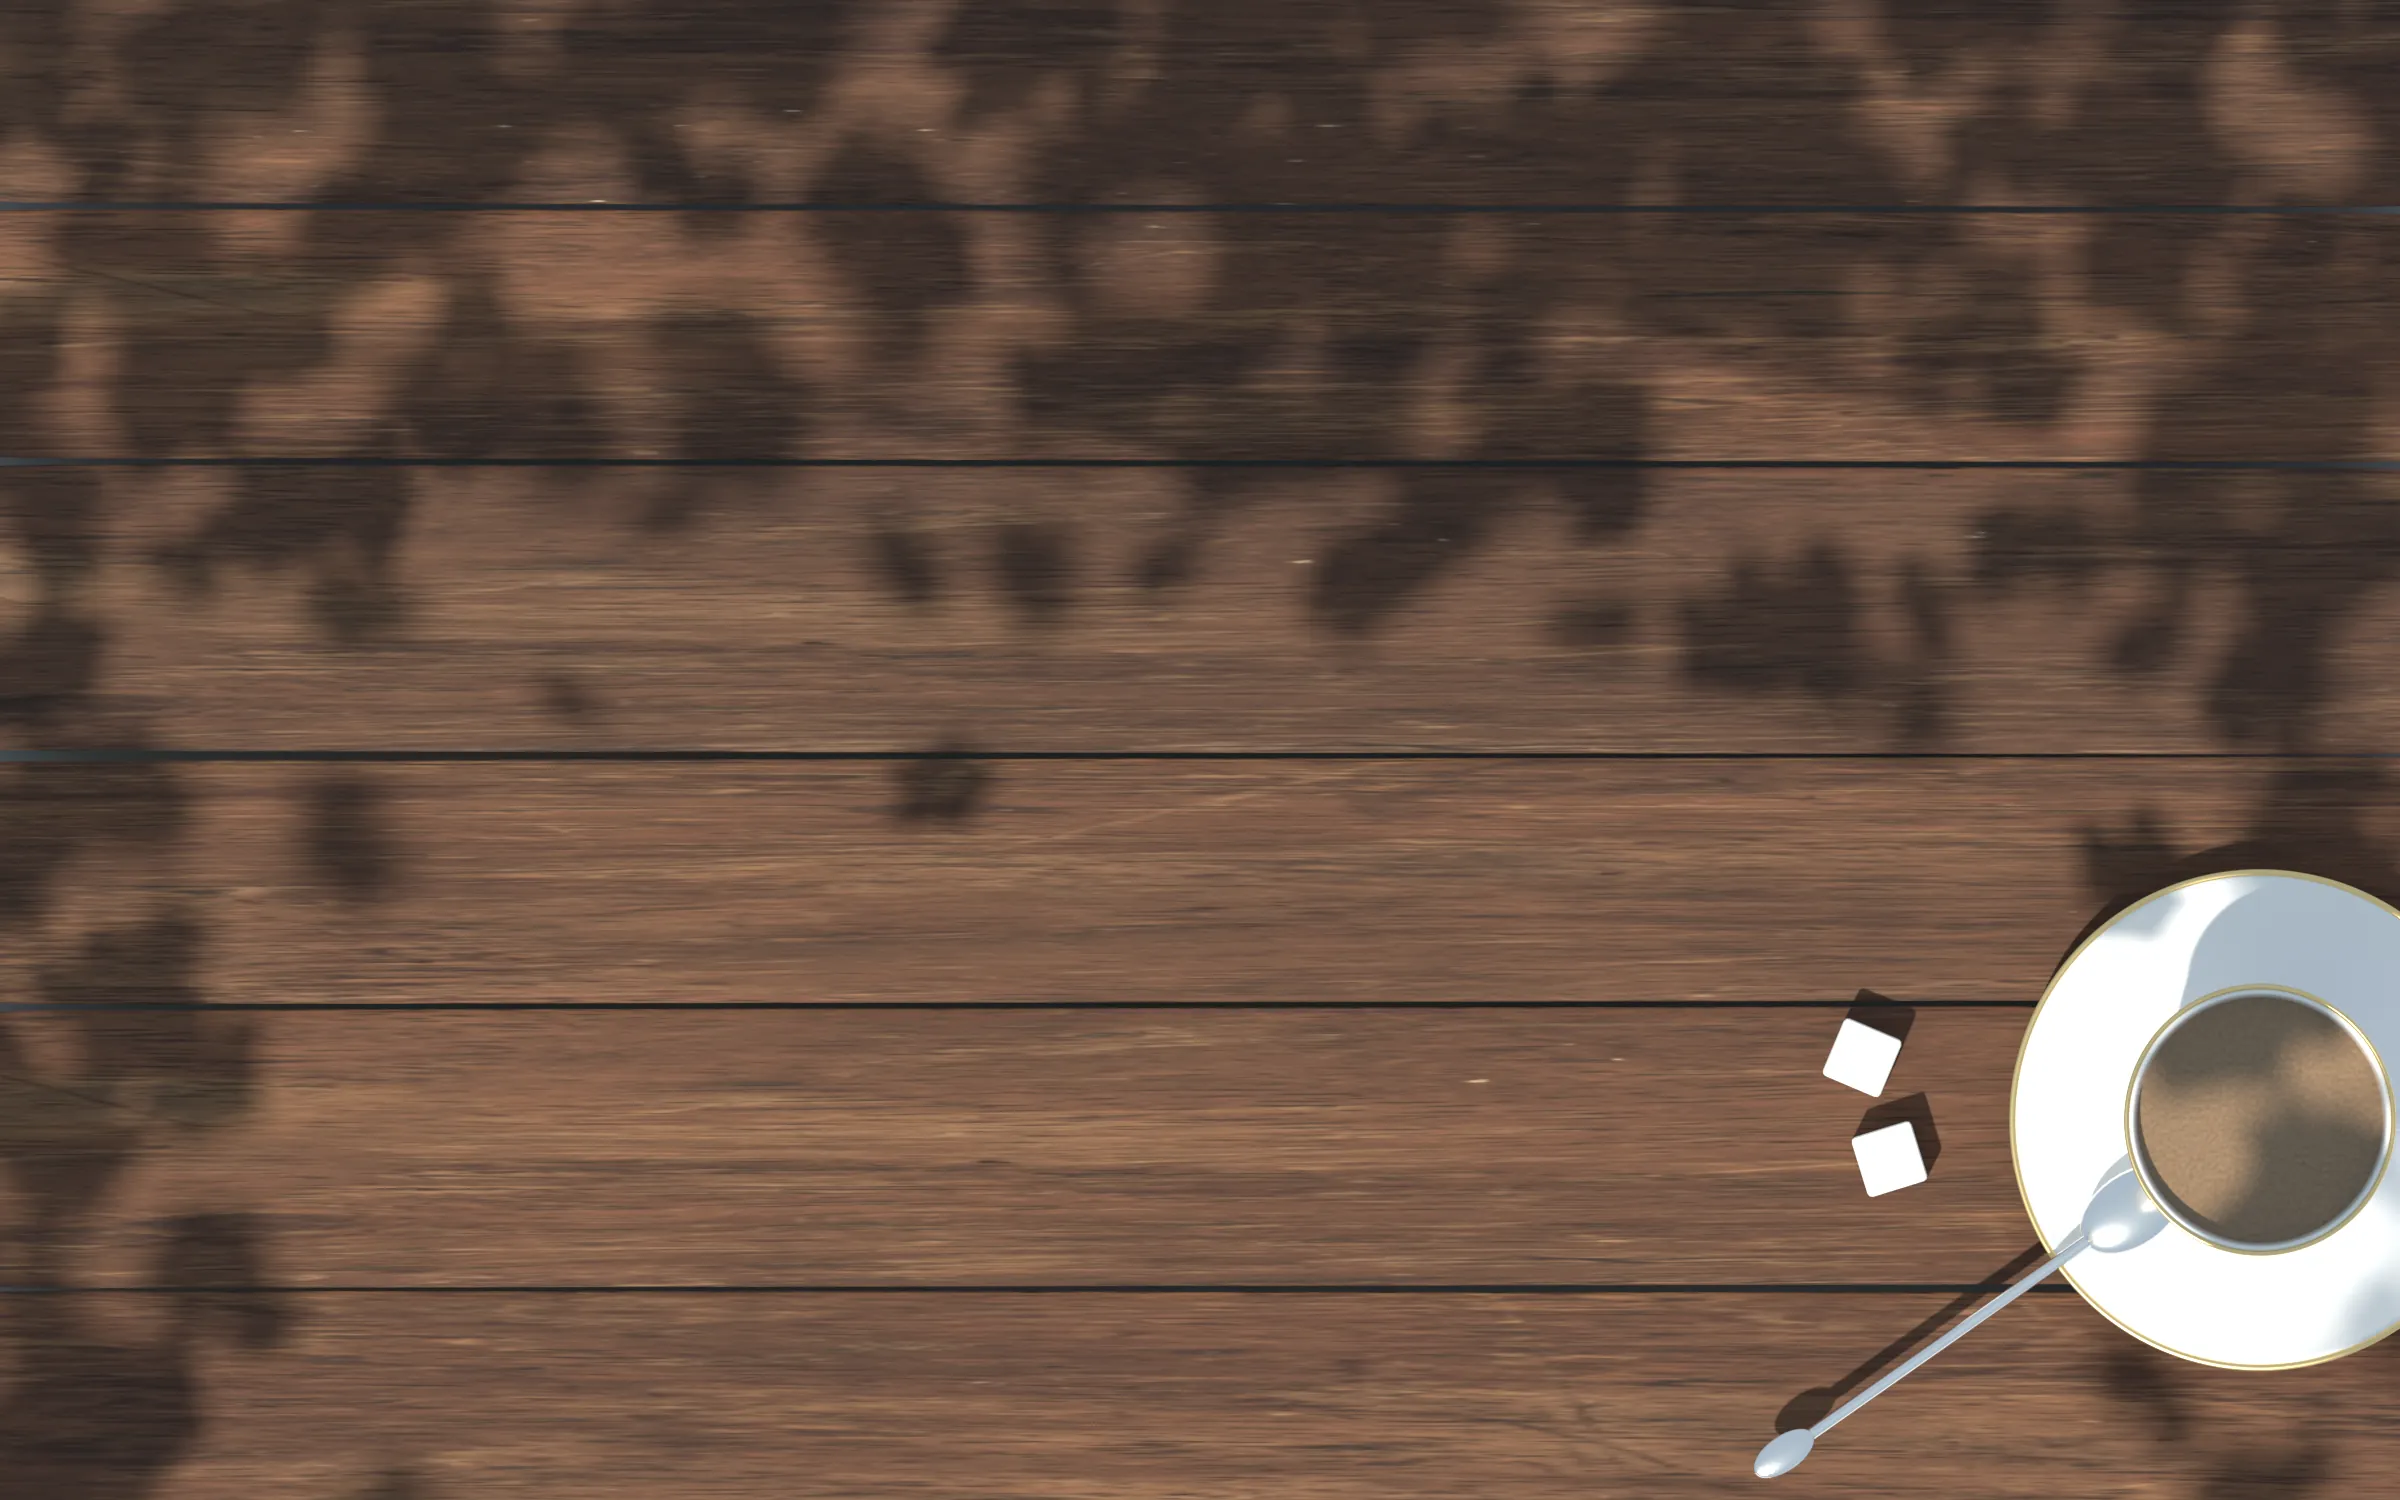
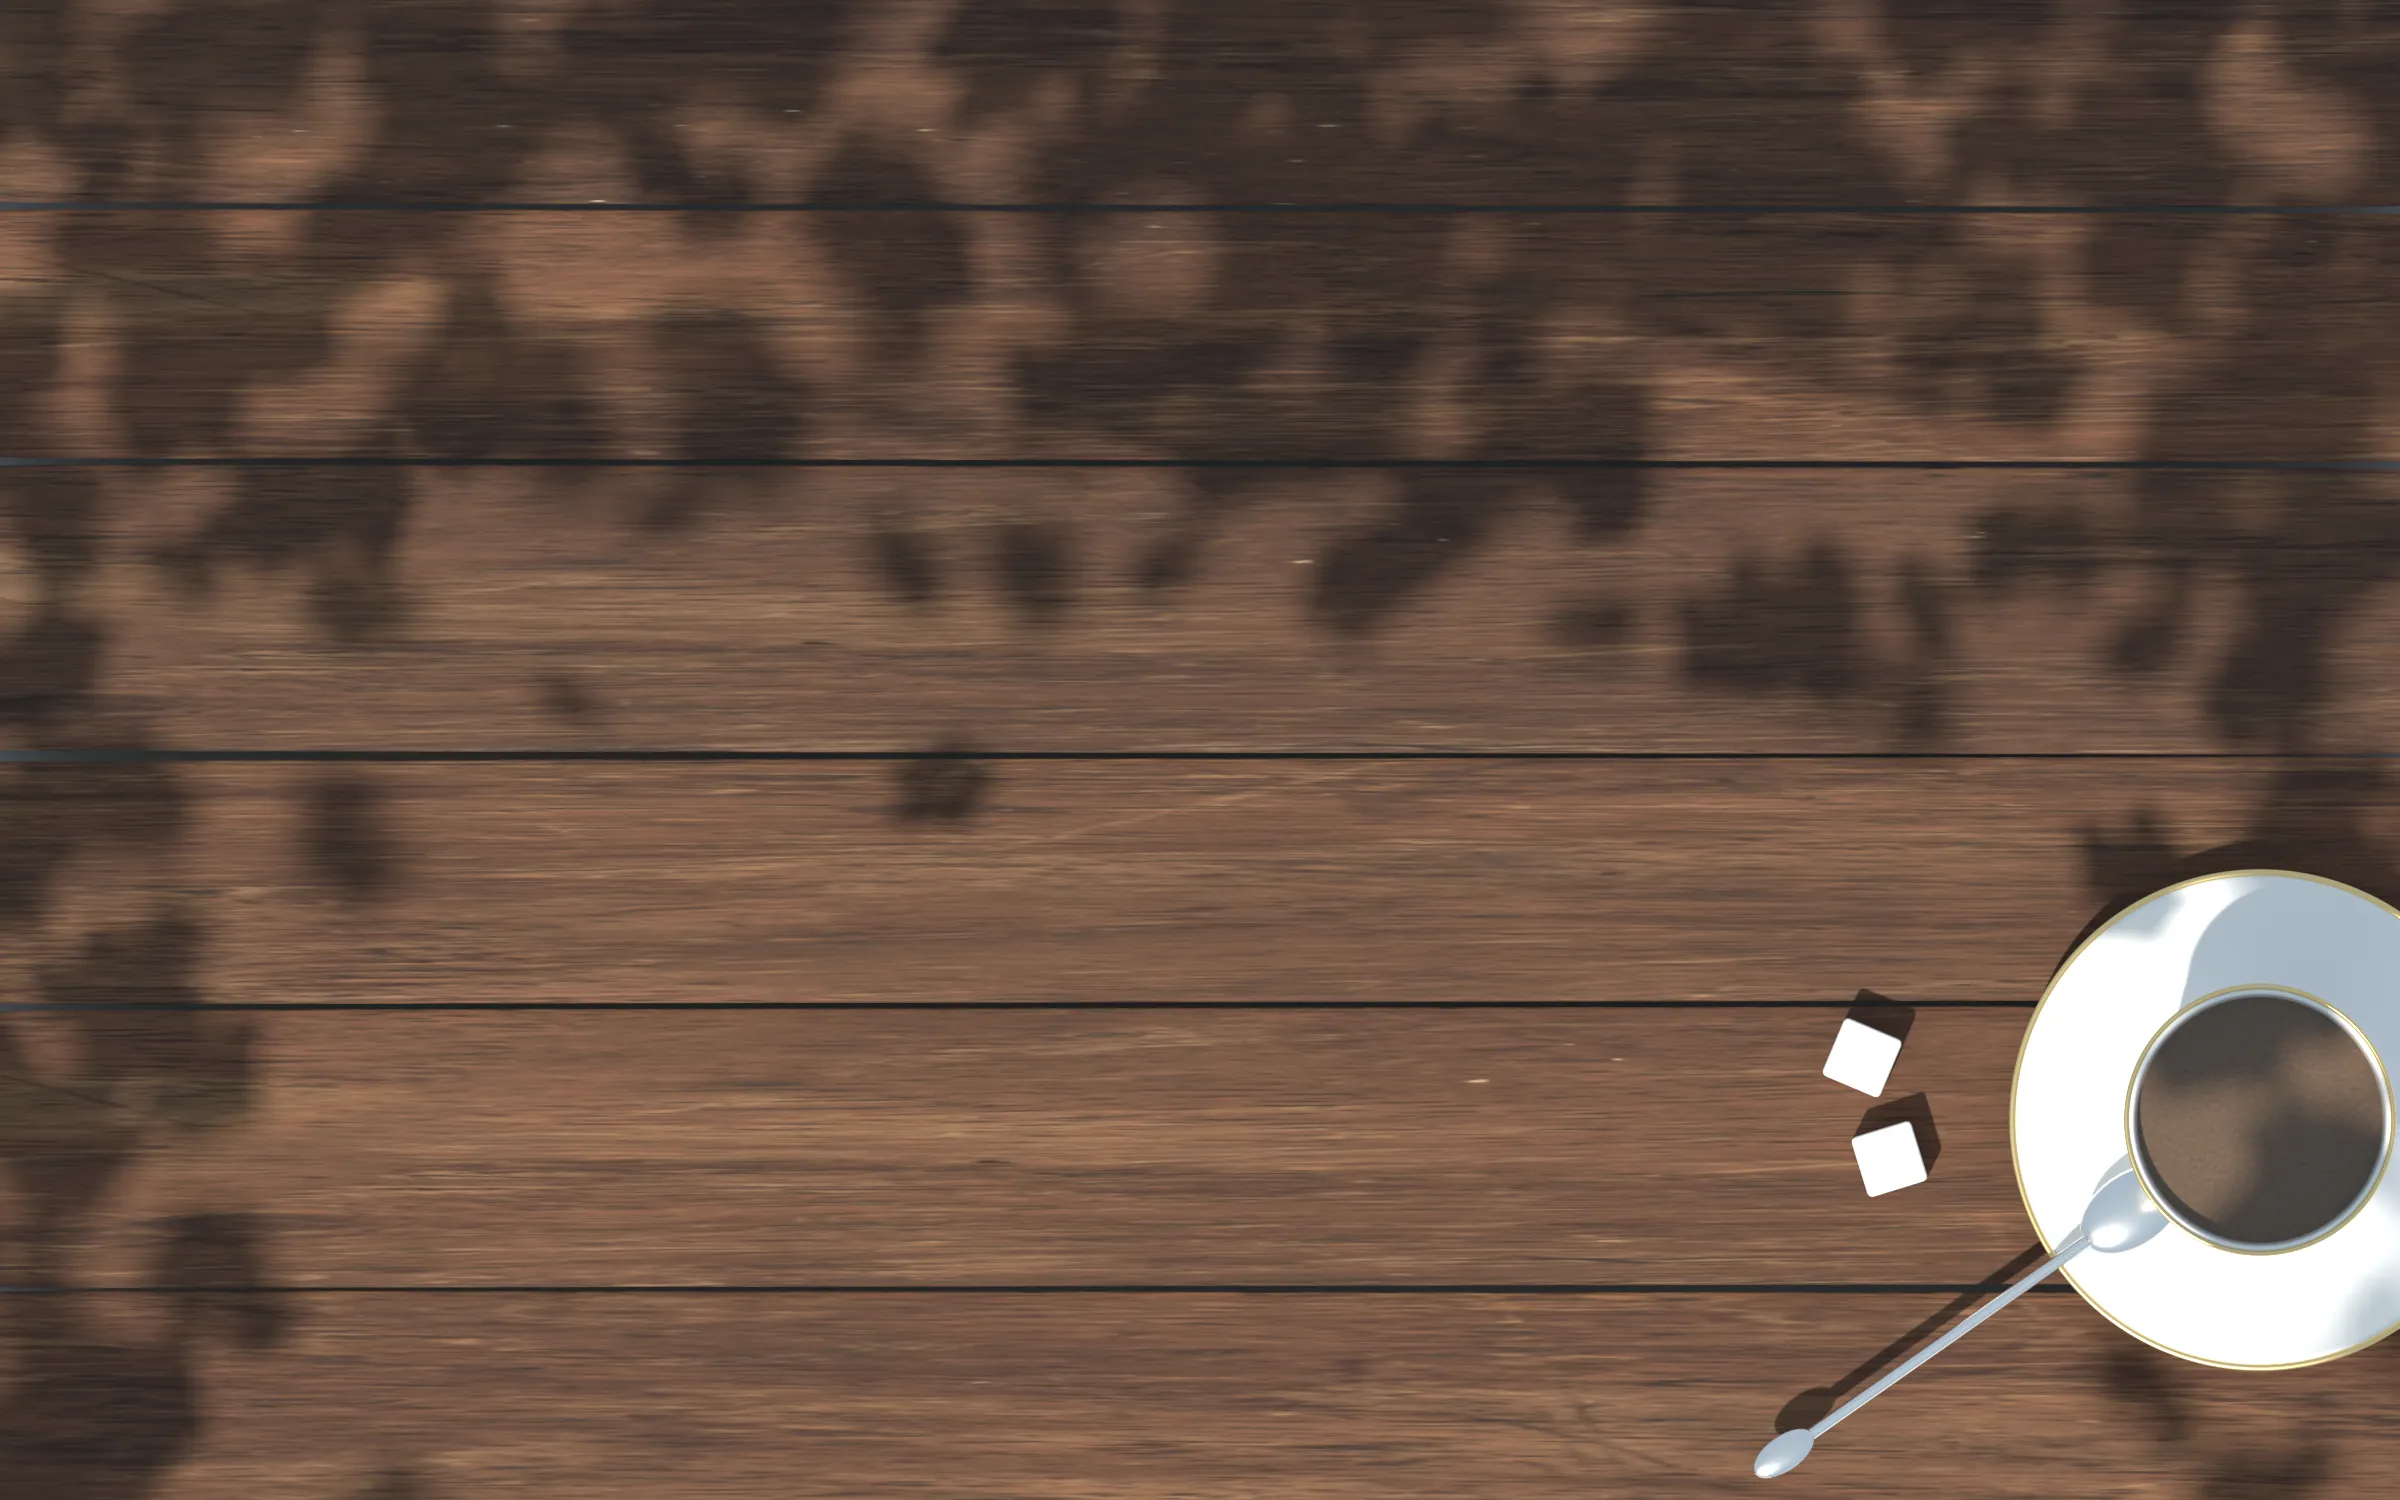
Кубики не меньше 32px на телефоне, плавное затемнение фона после раскрытия, кофе темнее
Claude-Session: https://claude.ai/code/session_013vq6NREHT7txoK1nXmxN83

Changed region(s): [[0.875, 0.6747, 1.0, 0.828]]

diff --git a/index.html b/index.html
@@ -68,7 +68,9 @@ button.primary:hover:not(:disabled){background:linear-gradient(180deg,#f0d38f,#c
   container-type:size;
   padding:max(6px,var(--sat)) max(10px,var(--sar)) max(8px,var(--sab)) max(10px,var(--sal));
 }
-.board-box{flex:1 1 auto;min-width:0;min-height:0;display:flex;align-items:center;justify-content:center;container-type:size}
+.vign{position:absolute;inset:0;pointer-events:none;opacity:0;background:radial-gradient(ellipse at 50% 45%,transparent 30%,rgba(0,0,0,.55));transition:opacity 1.6s ease}
+.vign.on{opacity:1;transition:none}
+.board-box{position:relative;flex:1 1 auto;min-width:0;min-height:0;display:flex;align-items:center;justify-content:center;container-type:size}
 .board-frame{position:relative;width:min(100cqw,calc(100cqh * 1100 / 700));aspect-ratio:1100/700;filter:drop-shadow(0 12px 30px rgba(0,0,0,.6))}
 svg#board{position:absolute;inset:0;width:100%;height:100%;display:block;touch-action:none}
 /* строка партии: игроки по краям, подсказка посередине, снизу золотая волосяная линия */
@@ -98,6 +100,8 @@ svg#board{position:absolute;inset:0;width:100%;height:100%;display:block;touch-a
 .hit{cursor:pointer}
 
 /* ---------- 3D кубики ---------- */
+/* кубик — 46/1100 ширины доски, но на телефоне не меньше 32px, иначе его не разглядеть */
+.board-frame{--ds:max(calc(min(100cqw,100cqh * 1100 / 700) * 46 / 1100),min(32px,calc(min(100cqw,100cqh * 1100 / 700) * 80 / 1100)))}
 .dice3d{position:absolute;inset:0;pointer-events:none;overflow:visible}
 /* у каждого кубика своя перспектива с точкой зрения прямо над ним: лежащий кубик показывает только верхнюю грань */
 .d3{position:absolute;width:var(--ds,50px);height:var(--ds,50px);margin:calc(var(--ds,50px) / -2) 0 0 calc(var(--ds,50px) / -2);perspective:calc(var(--ds,50px) * 14);transition:opacity .25s}
@@ -283,6 +287,7 @@ html.land #menu.opening .case{transform:translateX(calc(-50% + calc(3 * var(--vw
 <body>
 
 <div id="app">
+  <div class="vign" id="vign"></div>
   <header class="bar">
     <button class="ib" id="bMenu" aria-label="Меню"><svg viewBox="0 0 24 24"><path d="M4 7h16M4 12h16M4 17h16"/></svg></button>
     <div class="pl" id="p0">
@@ -501,7 +506,7 @@ html.land #menu.opening .case{transform:translateX(calc(-50% + calc(3 * var(--vw
 (()=>{
 'use strict';
 const $=id=>document.getElementById(id);
-const APP_VERSION='34';   // совпадает с VERSION в sw.js; добавляется к адресам картинок, чтобы новые доски не брались из старого кэша
+const APP_VERSION='35';   // совпадает с VERSION в sw.js; добавляется к адресам картинок, чтобы новые доски не брались из старого кэша
 const NS='http://www.w3.org/2000/svg';
 const f2=v=>(+v).toFixed(1);
 
@@ -885,8 +890,7 @@ const REST=[[500,316],[500,384]];
 const ZONE={l:[90,410],r:[590,910],y:[300,400]};
 const DIE_POS=[[712,350],[788,350]];
 const frame=$('frame'), diceBox=$('dice3d');
-function sizeDice(){ frame.style.setProperty('--ds',(frame.clientWidth*46/1100)+'px'); }
-new ResizeObserver(sizeDice).observe(frame);
+function sizeDice(){}   // размер кубика задан в CSS (--ds у .board-frame) и всегда равен 46/1100 ширины доски
 function dieEl(v){
   const el=document.createElement('div'); el.className='d3';
   let faces='';
@@ -2009,7 +2013,7 @@ function zoomIn(from){
     {duration:850,easing:'cubic-bezier(.45,0,.2,1)'});
   fadeChrome();
 }
-function fadeChrome(){ for(const el of [document.querySelector('.bar')]) el.animate([{opacity:0},{opacity:0,offset:.5},{opacity:1}],{duration:900}); }
+function fadeChrome(){ const v=$('vign'); v.classList.add('on'); requestAnimationFrame(()=>requestAnimationFrame(()=>v.classList.remove('on'))); for(const el of [document.querySelector('.bar')]) el.animate([{opacity:0},{opacity:0,offset:.5},{opacity:1}],{duration:900}); }
 $('mAi').addEventListener('click',()=>openCase(()=>newGame('ai')));
 $('mPvp').addEventListener('click',()=>openCase(()=>newGame('pvp')));
 $('mContinue').addEventListener('click',()=>openCase(()=>{ if(NET&&NET.started) showGame(); else if(G&&G.phase!=='over'&&readSaved()&&mode!=='net') showGame(); else resumeGame(); }));

diff --git a/sw.js b/sw.js
@@ -1,5 +1,5 @@
 // Офлайн-кэш: страница, доски, звуки и шрифты кэшируются при установке.
-const V = '34';                 // = APP_VERSION в index.html
+const V = '35';                 // = APP_VERSION в index.html
 const VERSION = 'nardy-v' + V;
 const SHELL = [
   './',

diff --git a/tools/blender_table.py b/tools/blender_table.py
@@ -134,7 +134,7 @@ lathe('cup', [(1.6, 0), (2.2, .3), (2.9, 1.6), (3.25, 3.4), (3.4, 5.2), (3.45, 5
 lathe('cuprim', [(3.36, 5.58), (3.5, 5.58), (3.5, 5.7), (3.36, 5.7), (3.36, 5.58)], gold, (X0, Y0, 1.0 * CM), cap=False)
 foam = bpy.data.materials.new('foam'); foam.use_nodes = True; fn = foam.node_tree.nodes; fb = fn['Principled BSDF']
 noise = fn.new('ShaderNodeTexNoise'); noise.inputs['Scale'].default_value = 60; noise.inputs['Detail'].default_value = 8
-ramp = fn.new('ShaderNodeValToRGB'); ramp.color_ramp.elements[0].color = (.10, .05, .025, 1); ramp.color_ramp.elements[1].color = (.36, .22, .11, 1)
+ramp = fn.new('ShaderNodeValToRGB'); ramp.color_ramp.elements[0].color = (.035, .016, .008, 1); ramp.color_ramp.elements[1].color = (.17, .09, .04, 1)
 foam.node_tree.links.new(noise.outputs['Fac'], ramp.inputs['Fac']); foam.node_tree.links.new(ramp.outputs['Color'], fb.inputs['Base Color'])
 fb.inputs['Roughness'].default_value = .35; fb.inputs['Coat Weight'].default_value = .5
 bpy.ops.mesh.primitive_cylinder_add(vertices=96, radius=3.22 * CM, depth=.3 * CM, location=(X0, Y0, (1.0 + 4.7) * CM)); bpy.context.object.data.materials.append(foam)
